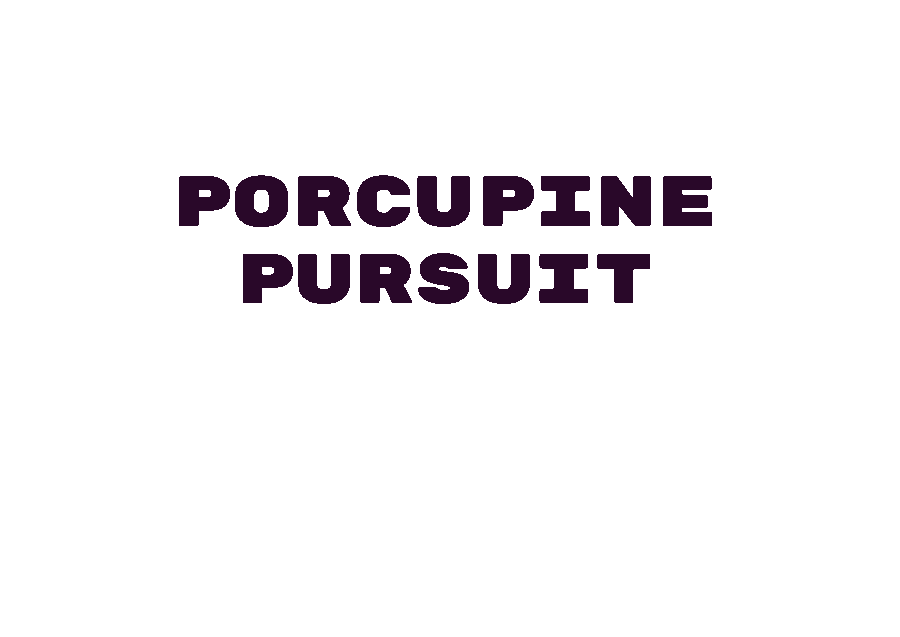
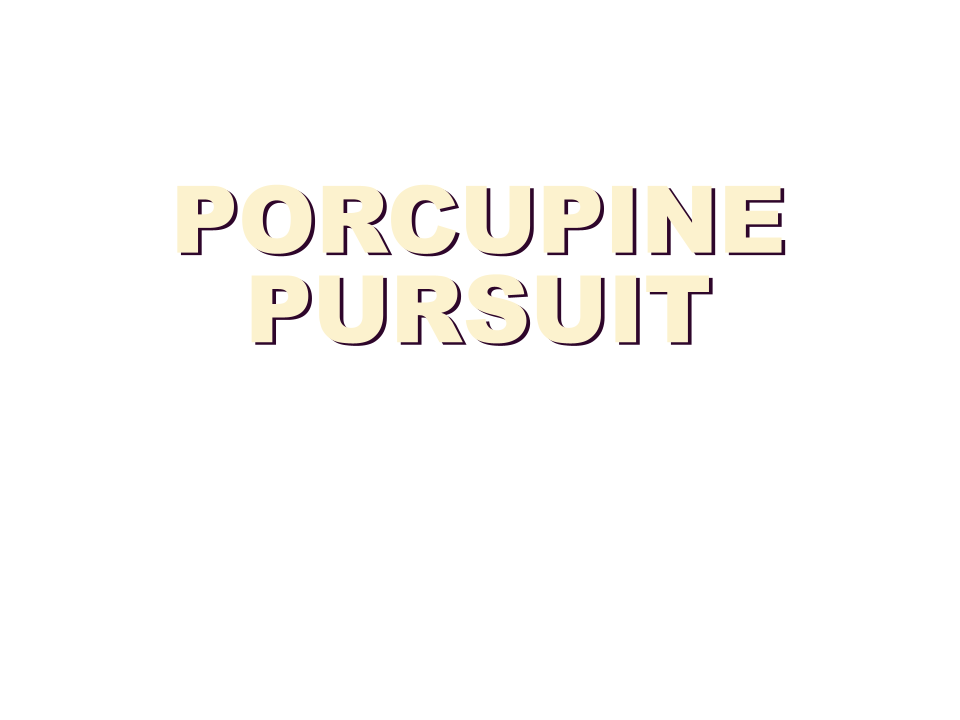
Added a title to the StartPanel

Changed region(s): [[0.1867, 0.2386, 0.84, 0.4772]]

diff --git a/main/App.java b/main/App.java
@@ -5,45 +5,18 @@ import java.awt.Color;
 import java.awt.Component;
 import java.awt.Dimension;
 import java.awt.Font;
-import java.awt.FontFormatException;
 import java.awt.Graphics;
-import java.awt.Graphics2D;
-import java.awt.Image;
 import java.awt.Insets;
-import java.awt.Shape;
 import java.awt.event.WindowAdapter;
 import java.awt.event.WindowEvent;
-import java.awt.geom.RoundRectangle2D;
-import java.awt.image.BufferedImage;
-import java.io.File;
-import java.io.IOException;
 import java.util.ArrayList;
 import java.util.Arrays;
 import java.util.List;
-
-import javax.imageio.ImageIO;
-import javax.swing.BorderFactory;
-import javax.swing.Icon;
-import javax.swing.ImageIcon;
-import javax.swing.JButton;
-import javax.swing.JComboBox;
-import javax.swing.JFrame;
-import javax.swing.JLabel;
-import javax.swing.JLayeredPane;
-import javax.swing.JPanel;
-import javax.swing.SwingUtilities;
-import javax.swing.Timer;
+import javax.swing.*;
+import javax.swing.UIManager.LookAndFeelInfo;
 import javax.swing.border.Border;
-import javax.swing.border.TitledBorder;
 
 import imgs.Img;
-
-import javax.swing.JButton;
-import java.awt.Graphics;
-import java.awt.Graphics2D;
-import java.awt.RenderingHints;
-import java.awt.Shape;
-import java.awt.geom.RoundRectangle2D;
 
 class App extends JFrame {
 
@@ -70,7 +43,7 @@ class App extends JFrame {
      * Creates an App JPanel.
      */
     public App() {
-        assert SwingUtilities.isEventDispatchThread();
+        assert SwingUtilities.isEventDispatchThread();    
         setDefaultCloseOperation(JFrame.DISPOSE_ON_CLOSE);
         setVisible(true);
         setResizable(false);
@@ -81,14 +54,14 @@ class App extends JFrame {
         JLabel backgroundLabel = new StartPanel(WIDTH, HEIGHT, Img.home_background0, "");
         backgroundLabel.setBounds(0, 0, backgroundImage.getIconWidth(), backgroundImage.getIconHeight());
 
-        transition();
-        // home(backgroundLabel, backgroundImage);
+        home(backgroundLabel, backgroundImage);
         addWindowListener(new WindowAdapter() {
             public void windowClosed(WindowEvent e) {
                 closePhase.run();
             }
         });
     }
+
 
 
     /**
@@ -147,7 +120,7 @@ class App extends JFrame {
         JPanel homePanel = new JPanel();
         homePanel.setLayout(null);
 
-        /* ImageIcon titleImage = new ImageIcon("imgs/title.png");
+        /*ImageIcon titleImage = new ImageIcon("imgs/title.png");
         JLabel titleLabel = new JLabel(titleImage);
         titleLabel.setBounds(40, 0, titleImage.getIconWidth(), backgroundImage.getIconHeight()); */
 

diff --git a/main/StartPanel.java b/main/StartPanel.java
@@ -56,7 +56,7 @@ public class StartPanel extends JLabel implements ActionListener {
         scaledPaint(g2d, 0.4, currSprite.image, spriteLocation, false);
         scaledPaint(g2d, 1, clouds[0].image, cloud0Location, cloudsFlipped[0]);
         scaledPaint(g2d, 1, clouds[1].image, cloud1Location, cloudsFlipped[1]);
-        // scaledPaint(g2d, 1, title.image, titleLocation, false);
+        scaledPaint(g2d, 1, title.image, titleLocation, false);
     }
 
 
@@ -109,7 +109,7 @@ public class StartPanel extends JLabel implements ActionListener {
             enemyAnimation();
         }
         cloudAnimation();
-        // titleAnimation();
+        titleAnimation();
         repaint();
     }
 
@@ -225,14 +225,14 @@ public class StartPanel extends JLabel implements ActionListener {
         cloudsSpeed[num] = (int)(Math.random() * 4) + 1;
     }
 
-    private Point titleLocation = new Point(200, 200);
-    private Img title = Img.Congrats;
+    private Point titleLocation = new Point(10, 8);
+    private Img title = Img.title;
     private int titleCounter;
 
     private void titleAnimation(){
-        if(titleCounter++ % 5 == 0){
-            if(titleLocation.y() == 200) titleLocation = new Point(titleLocation.x(), titleLocation.y() + 10);
-            else titleLocation = new Point(titleLocation.x(), titleLocation.y() - 10);
+        if(titleCounter++ % 4 == 0){
+            if(titleLocation.y() == 8) titleLocation = new Point(titleLocation.x(), titleLocation.y() + 8);
+            else titleLocation = new Point(titleLocation.x(), titleLocation.y() - 8);
         }
     }
 

diff --git a/imgs/Img.java b/imgs/Img.java
@@ -5,7 +5,7 @@ import java.io.IOException;
 import java.net.URL;
 import javax.imageio.ImageIO;
 public enum Img{
-  home_background0, home_background1,
+  home_background0, home_background1, title,
   heart, orange, cloud0, cloud1, Congrats,
   levelone,
   grass0, grass1, grass2, grass3, grass4, 
